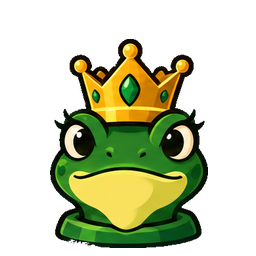
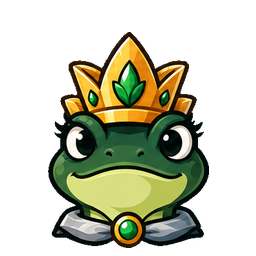
farm-busts: new sheets with sceptre kings; extract the inverse palette too
Both busts sheets were redrawn (kings hold a sceptre for legibility at
40 px). farm-busts is regenerated from the light-goats/dark-frogs sheet;
the dark-goats/light-frogs sheet is extracted into
public/piece-sets/farm-busts-inverse but not yet listed in sets.json
(board palette and the animal/colour choice are for the Phase 5 plan).

diff --git a/scripts/extract-pieces.py b/scripts/extract-pieces.py
@@ -6,7 +6,7 @@ render the quality-gate contact sheet docs/piece-contact-sheet.png.
 
 Usage (from the repo root):
     python scripts/extract-pieces.py                     # all sets: pieces + contact sheets + debug overlays
-    python scripts/extract-pieces.py farm-busts          # one set only
+    python scripts/extract-pieces.py farm-busts          # one set only (farm, farm-busts, farm-busts-inverse)
     python scripts/extract-pieces.py --dry-run           # only print measurements and pocket candidates
 
 Sets:
@@ -15,6 +15,7 @@ Sets:
   farm-busts  one dark-background sheet (farm-busts.png) with both rows (goats on top,
               frogs below), busts without pedestals, Czech labels under each piece;
               segmented by large connected components, labels ignored (process_busts_sheet).
+  farm-busts-inverse  same layout from farm-busts-inverse.png: dark goats, light frogs.
 
 Pipeline (see docs/phase-3-plan.md, Part B):
   1. Background = flood fill from the sheet border with a colour tolerance (the cream
@@ -94,9 +95,21 @@ FARM_LIGHT = (0xDC, 0xE6, 0xF0)
 FARM_DARK = (0x8F, 0xA3, 0xBD)
 
 # ---- farm-busts recipe -------------------------------------------------------------------
-BUSTS_SOURCE = ROOT / "assets/source/farm-busts.png"
-BUSTS_OUT_DIR = ROOT / "public/piece-sets/farm-busts"
-BUSTS_CONTACT_SHEET = ROOT / "docs/piece-contact-sheet-busts.png"
+# Two sheets with identical layout: light goats / dark frogs (the default set) and the
+# inverse palette (dark goats / light frogs). Both rows carry kings with a sceptre so the
+# king stays recognisable at 40 px.
+BUSTS_VARIANTS = {
+    "farm-busts": {
+        "source": ROOT / "assets/source/farm-busts.png",
+        "out": ROOT / "public/piece-sets/farm-busts",
+        "contact": ROOT / "docs/piece-contact-sheet-busts.png",
+    },
+    "farm-busts-inverse": {
+        "source": ROOT / "assets/source/farm-busts-inverse.png",
+        "out": ROOT / "public/piece-sets/farm-busts-inverse",
+        "contact": ROOT / "docs/piece-contact-sheet-busts-inverse.png",
+    },
+}
 BUSTS_ROWS = {"w": (0, 430), "b": (430, None)}  # goats above y=430, frogs below (sheet px)
 BUSTS_ORDER = ["P", "R", "N", "B", "Q", "K"]  # left -> right on this sheet
 BUSTS_BG_TOL = 36  # background is ~(27,28,29); outlines are near-black (sum diff ~70)
@@ -272,8 +285,8 @@ def process_sheet(side: str, path: Path, dry_run: bool) -> list[Piece]:
     return pieces
 
 
-def process_busts_sheet(dry_run: bool) -> list[Piece]:
-    img = Image.open(BUSTS_SOURCE).convert("RGB")
+def process_busts_sheet(source: Path, dry_run: bool) -> list[Piece]:
+    img = Image.open(source).convert("RGB")
     rgb = np.asarray(img).astype(np.int16)
     h, w = rgb.shape[:2]
     edge = np.concatenate([rgb[:4].reshape(-1, 3), rgb[-4:].reshape(-1, 3), rgb[:, :4].reshape(-1, 3), rgb[:, -4:].reshape(-1, 3)])
@@ -341,7 +354,7 @@ def process_busts_sheet(dry_run: bool) -> list[Piece]:
                 ov = np.zeros((*piece.opaque.shape, 4), dtype=np.uint8)
                 ov[~piece.opaque] = (255, 0, 255, 110)
                 dbg = Image.alpha_composite(dbg, Image.fromarray(ov))
-                dbg.save(DEBUG_DIR / f"busts-{code}.png")
+                dbg.save(DEBUG_DIR / f"{source.stem}-{code}.png")
     return pieces
 
 
@@ -502,9 +515,11 @@ def run_farm(dry_run: bool) -> None:
     contact_sheet(files)
 
 
-def run_busts(dry_run: bool) -> None:
-    print(f"{BUSTS_SOURCE.name}:")
-    pieces = process_busts_sheet(dry_run)
+def run_busts(name: str, dry_run: bool) -> None:
+    variant = BUSTS_VARIANTS[name]
+    source, out_dir, contact = variant["source"], variant["out"], variant["contact"]
+    print(f"{source.name}:")
+    pieces = process_busts_sheet(source, dry_run)
     for p in pieces:
         for idx, area, cx, cy, kept in p.pockets:
             print(f"  {p.code} pocket #{idx}: area {area} px, centre ({cx},{cy}) -> CLEAR")
@@ -516,26 +531,30 @@ def run_busts(dry_run: bool) -> None:
     base_scale = BUSTS_TALLEST_FRACTION * CANVAS / tallest
     if dry_run:
         return
-    BUSTS_OUT_DIR.mkdir(parents=True, exist_ok=True)
+    out_dir.mkdir(parents=True, exist_ok=True)
     files: dict[str, Path] = {}
     print("placing:")
     for p in pieces:
         canvas = place(rgbas[p.code], base_scale, BUSTS_NUDGE_X.get(p.code, 0), p.code, BUSTS_BOTTOM_MARGIN)
-        out = BUSTS_OUT_DIR / f"{p.code}.png"
+        out = out_dir / f"{p.code}.png"
         canvas.save(out, optimize=True, compress_level=9)
         files[p.code] = out
-    print(f"wrote {len(files)} pieces -> {BUSTS_OUT_DIR.relative_to(ROOT)}")
-    contact_sheet(files, BUSTS_CONTACT_SHEET)
+    print(f"wrote {len(files)} pieces -> {out_dir.relative_to(ROOT)}")
+    contact_sheet(files, contact)
 
 
 def main() -> None:
     args = [a for a in sys.argv[1:] if not a.startswith("--")]
     dry_run = "--dry-run" in sys.argv
-    wanted = set(args) or {"farm", "farm-busts"}
+    wanted = set(args) or {"farm", *BUSTS_VARIANTS}
+    unknown = wanted - {"farm", *BUSTS_VARIANTS}
+    if unknown:
+        sys.exit(f"unknown set(s): {sorted(unknown)}; known: farm, {', '.join(BUSTS_VARIANTS)}")
     if "farm" in wanted:
         run_farm(dry_run)
-    if "farm-busts" in wanted:
-        run_busts(dry_run)
+    for name in BUSTS_VARIANTS:
+        if name in wanted:
+            run_busts(name, dry_run)
     if dry_run:
         print("dry run: nothing written")
 
